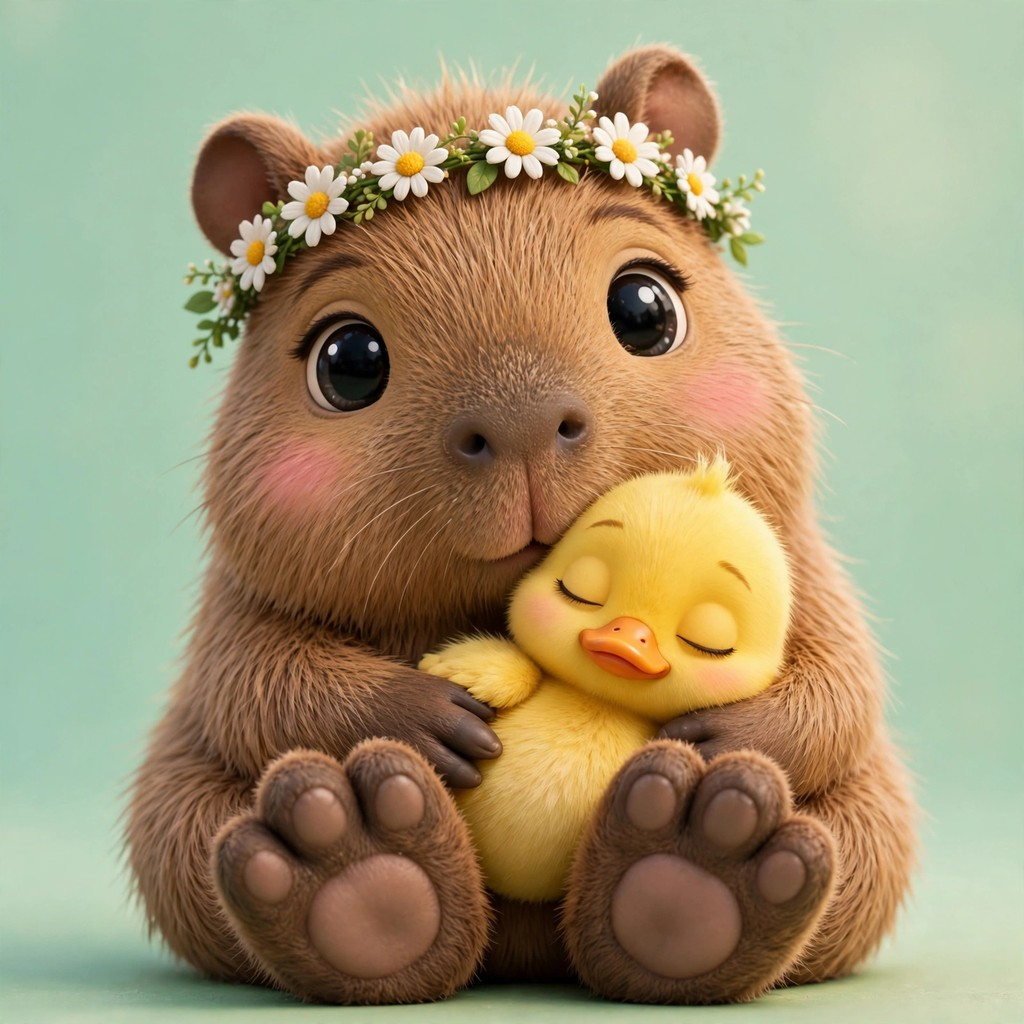
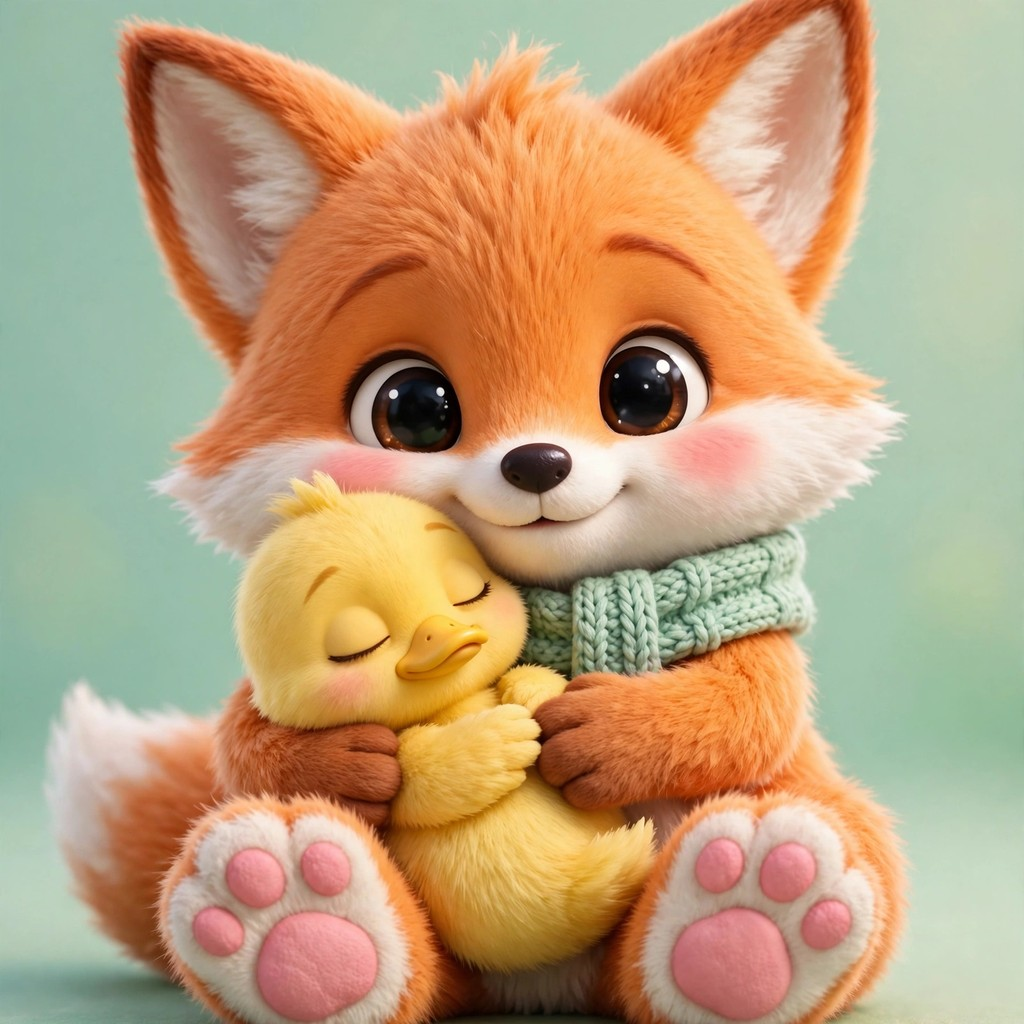
cutest-picture-01 round 3: baby fox cub hugging a duckling

diff --git a/main.py b/main.py
@@ -1,4 +1,4 @@
-# The picture ships in the repo as art.jpg (a baby capybara hugging a duckling);
+# The picture ships in the repo as art.jpg (a baby fox cub hugging a duckling);
 # the program only copies it to the output.
 import os
 import shutil
